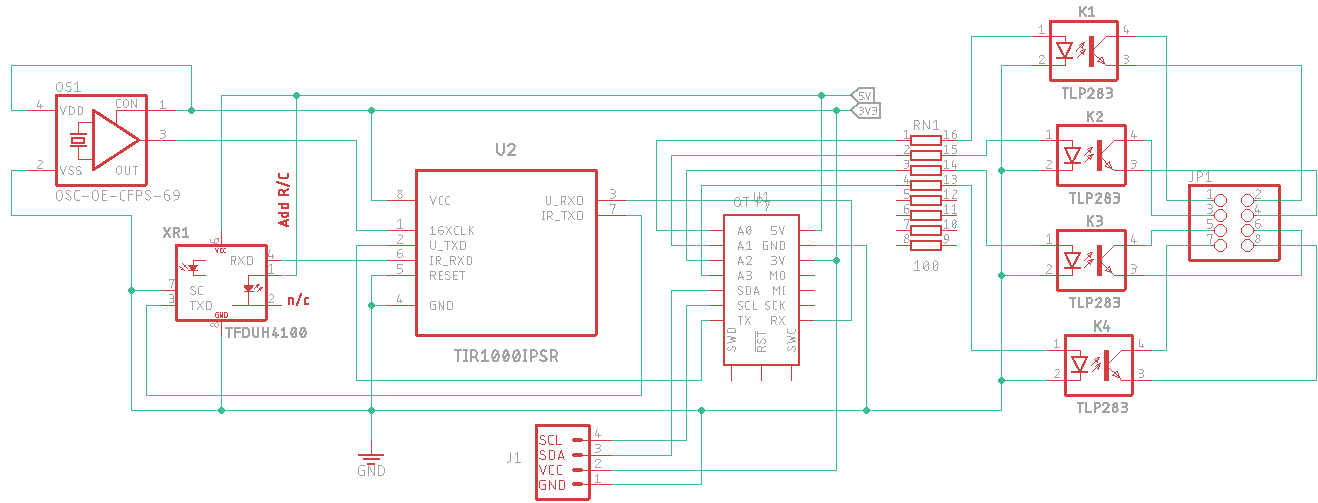
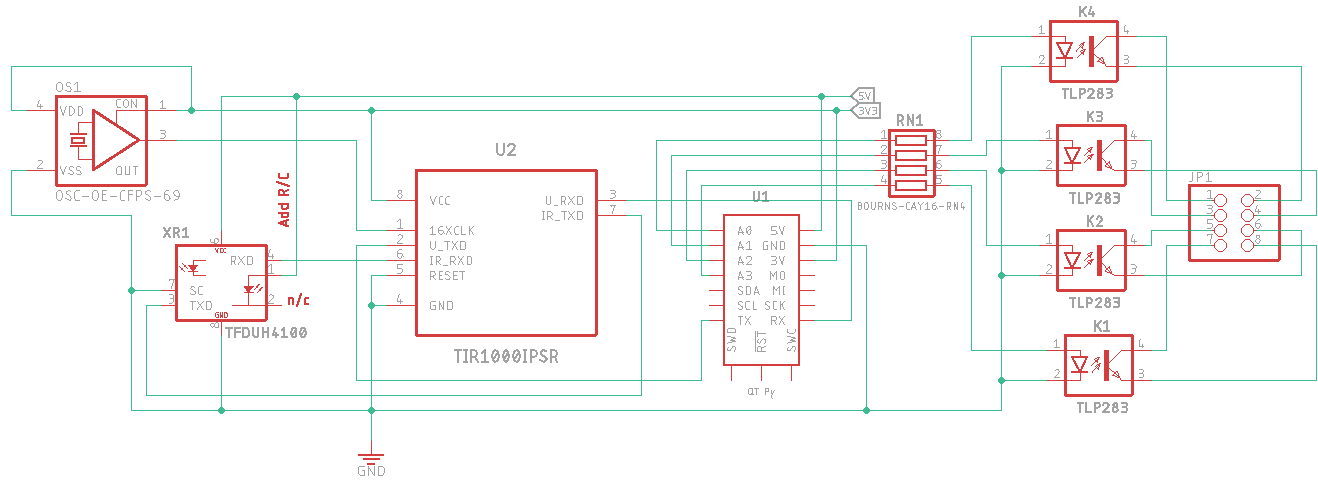
board updated for fab

diff --git a/README.md b/README.md
@@ -2,21 +2,26 @@
 
 ## Introduction
 
-Provides the ability to receive IR remote signals from an IR Voice assistant and do switchey stuff. The use of an IR transceiver & decoder will allow it to learn IR codes as well.
+Provides the ability to operate relays in response to a signal received from:
+
+* an IR Remote
+* an IR Voice assistant
+* a USB connected PC
+* or Wi-Fi.
+
+The use of an IR transceiver & decoder will allow the MCU to learn IR codes as well.
 
 ## Status
 
-**Preliminary** - Initial concept and mockup posted. Awaiting feedback.
+|    Date    | Status                                                       |
+| :--------: | ------------------------------------------------------------ |
+| 2022-10-25 | Boards and parts orders are pending JLCPCB review and Digi-Key fixing their site, again. |
 
 The full complement of Eagle and Gerber files (for PCB fabrication) will be provided after proof-of-concept.
 
 ## ToDo List
 
-* Resize relay contact track for the full 2A.
-* Source smaller 4-pole resistor network.
-* Determine if flyback diodes will be required (across relay contacts).
-* Remove Qwiic/STEMMA QT if present on MCU, or add pads for pull-up resistors.
-* Reorder Kn and JP1.
+* Determine if flyback diodes will be required for inductive loads across relay contacts.
 
 ## Components
 
@@ -26,7 +31,7 @@ The full complement of Eagle and Gerber files (for PCB fabrication) will be prov
 
 **Candidates**:
 
-* Vishay [TRDU4101](https://www.digikey.com/short/vzrt1tnq) [datasheet](https://www.vishay.com/docs/81288/tfdu4101.pdf)
+* Vishay [TFDU4101](https://www.digikey.com/short/vzrt1tnq) [datasheet](https://www.vishay.com/docs/81288/tfdu4101.pdf)
 
 ### IR Encoder/Decoder
 
@@ -56,8 +61,8 @@ mockup: Vishay TFDU4101 (Mouser) [datasheet](https://www.mouser.com/datasheet/2/
 
 **Candidates**:
 
-* QT Py
-* Itsy Bitsy
+* QT Py [search](https://www.adafruit.com/?q=qt+py&sort=BestMatch)
+* ~~Itsy Bitsy~~
 
 ## Parts List
 
